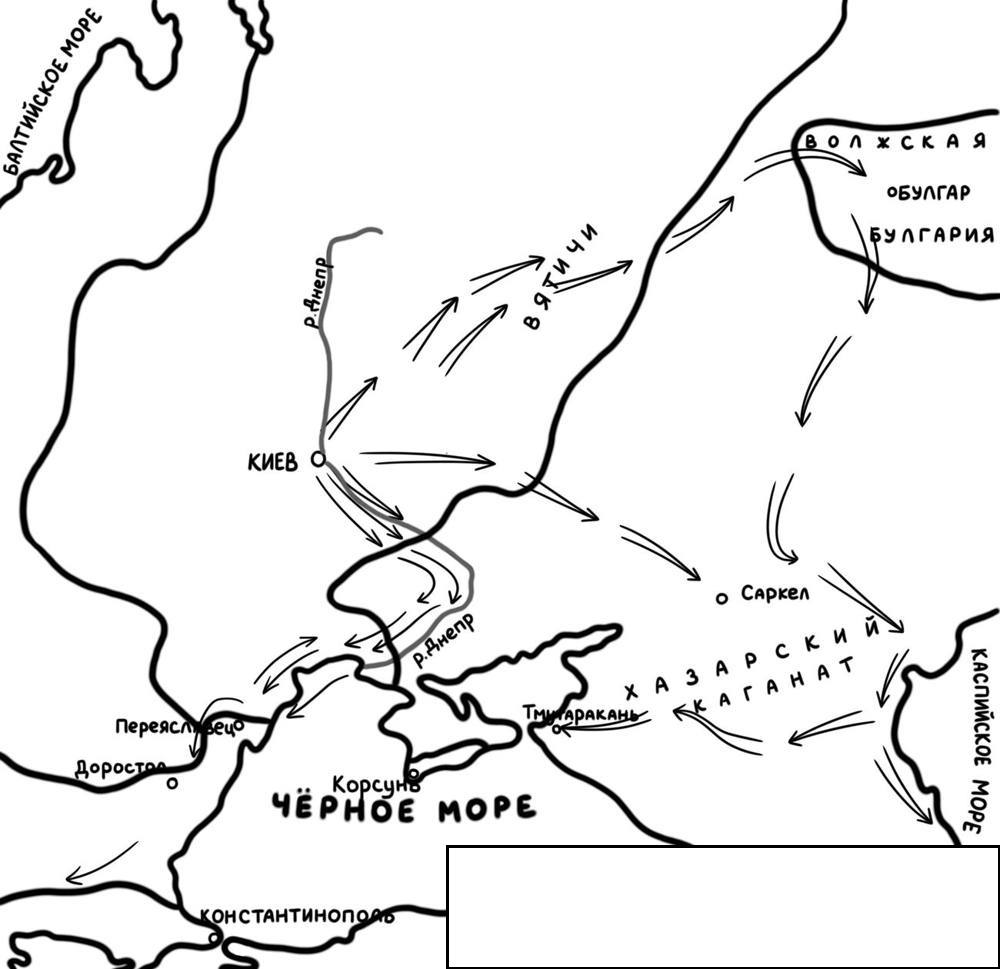
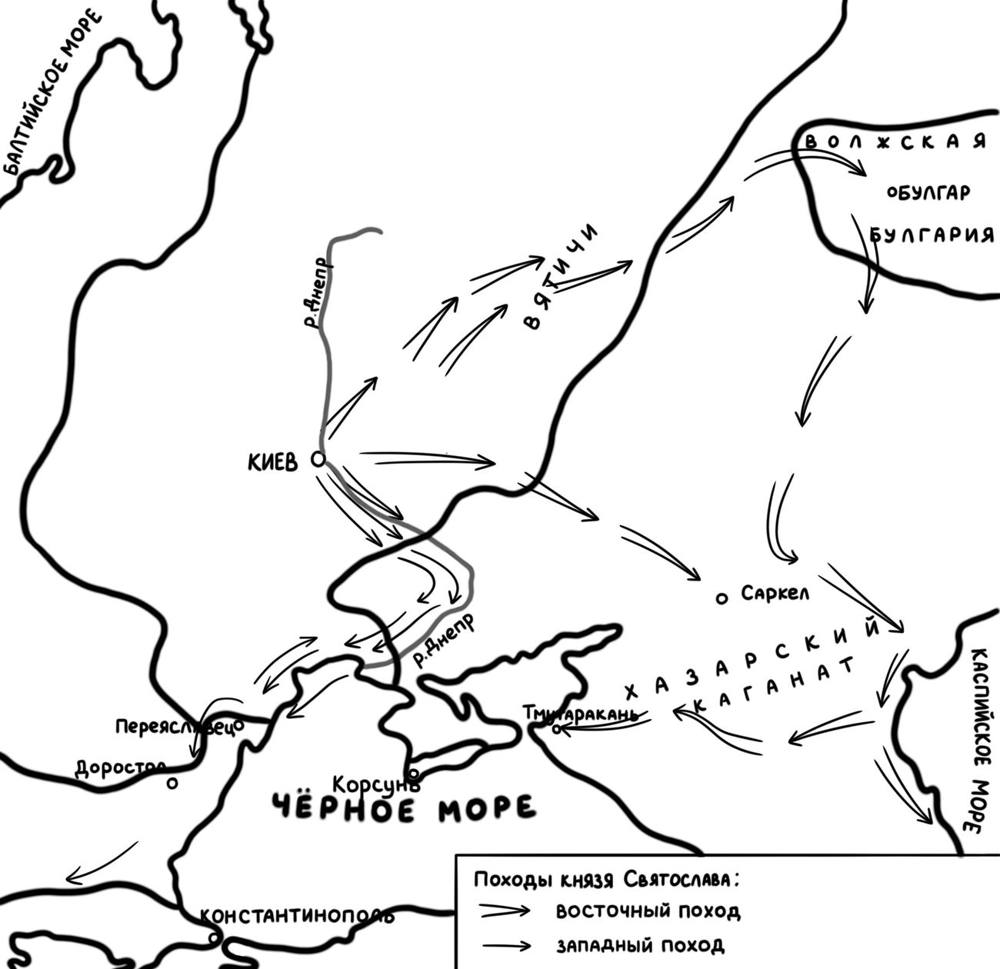
Карты: вернуть легенды без закрашивания
Claude-Session: https://claude.ai/code/session_019BuSggXhBWV9PxJjnNbK5v

Changed region(s): [[0.434, 0.8669, 1.0, 1.0]]

diff --git a/sw.js b/sw.js
@@ -1,5 +1,5 @@
-const C='ege-v9';
-const MC='ege-maps-1'; // карты: отдельный кэш, не стирается при обновлении сайта
+const C='ege-v10';
+const MC='ege-maps-2'; // карты: отдельный кэш, не стирается при обновлении сайта
 const FILES=['./','./index.html','./manifest.json','./icon-192.png','./icon-512.png','./mistakes.json'];
 self.addEventListener('install',e=>{self.skipWaiting();e.waitUntil(caches.open(C).then(c=>c.addAll(FILES)))});
 self.addEventListener('activate',e=>e.waitUntil(caches.keys().then(ks=>Promise.all(ks.filter(k=>k!==C&&k!==MC).map(k=>caches.delete(k)))).then(()=>self.clients.claim())));

diff --git a/CLAUDE.md b/CLAUDE.md
@@ -7,7 +7,7 @@
 ## Файлы
 - `index.html` — вся программа. В ней же встроены данные «Мегашпоры» по истории (тег `<script id="data">`).
 - `mistakes.json` — раздел «Мои ошибки»: ключи `rus`, `hist`, `soc`. Сайт загружает его при каждом открытии.
-- `maps/NN.jpg` — карты из «Мегашпоры»; NN = номер темы в массиве `maps` (с 00). У тем 00 и 39 карт нет (`MAP_NO` в index.html). Подписи, прямо называющие тему (в легенде), закрыты белыми прямоугольниками.
+- `maps/NN.jpg` — карты из «Мегашпоры»; NN = номер темы в массиве `maps` (с 00). У тем 00 и 39 карт нет (`MAP_NO` в index.html).
 - `sw.js` — офлайн-кэш. После изменения `index.html` поднять версию `C` (ege-vN). Карты лежат в отдельном кэше `MC`, его поднимать только при замене картинок.
 
 ## Как добавлять ошибки
